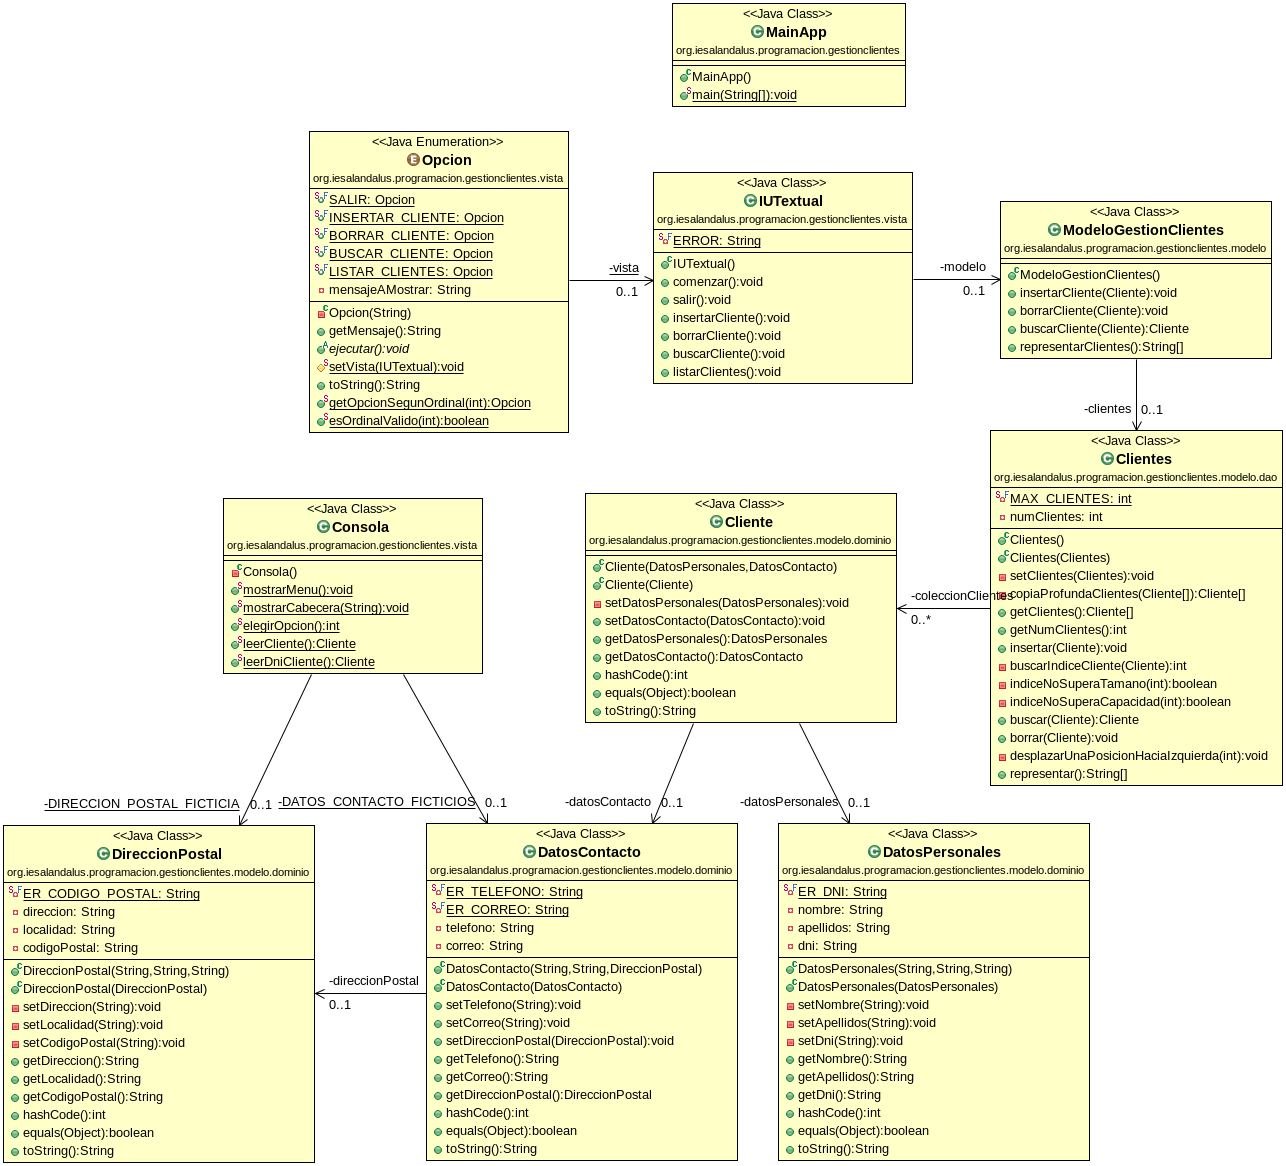
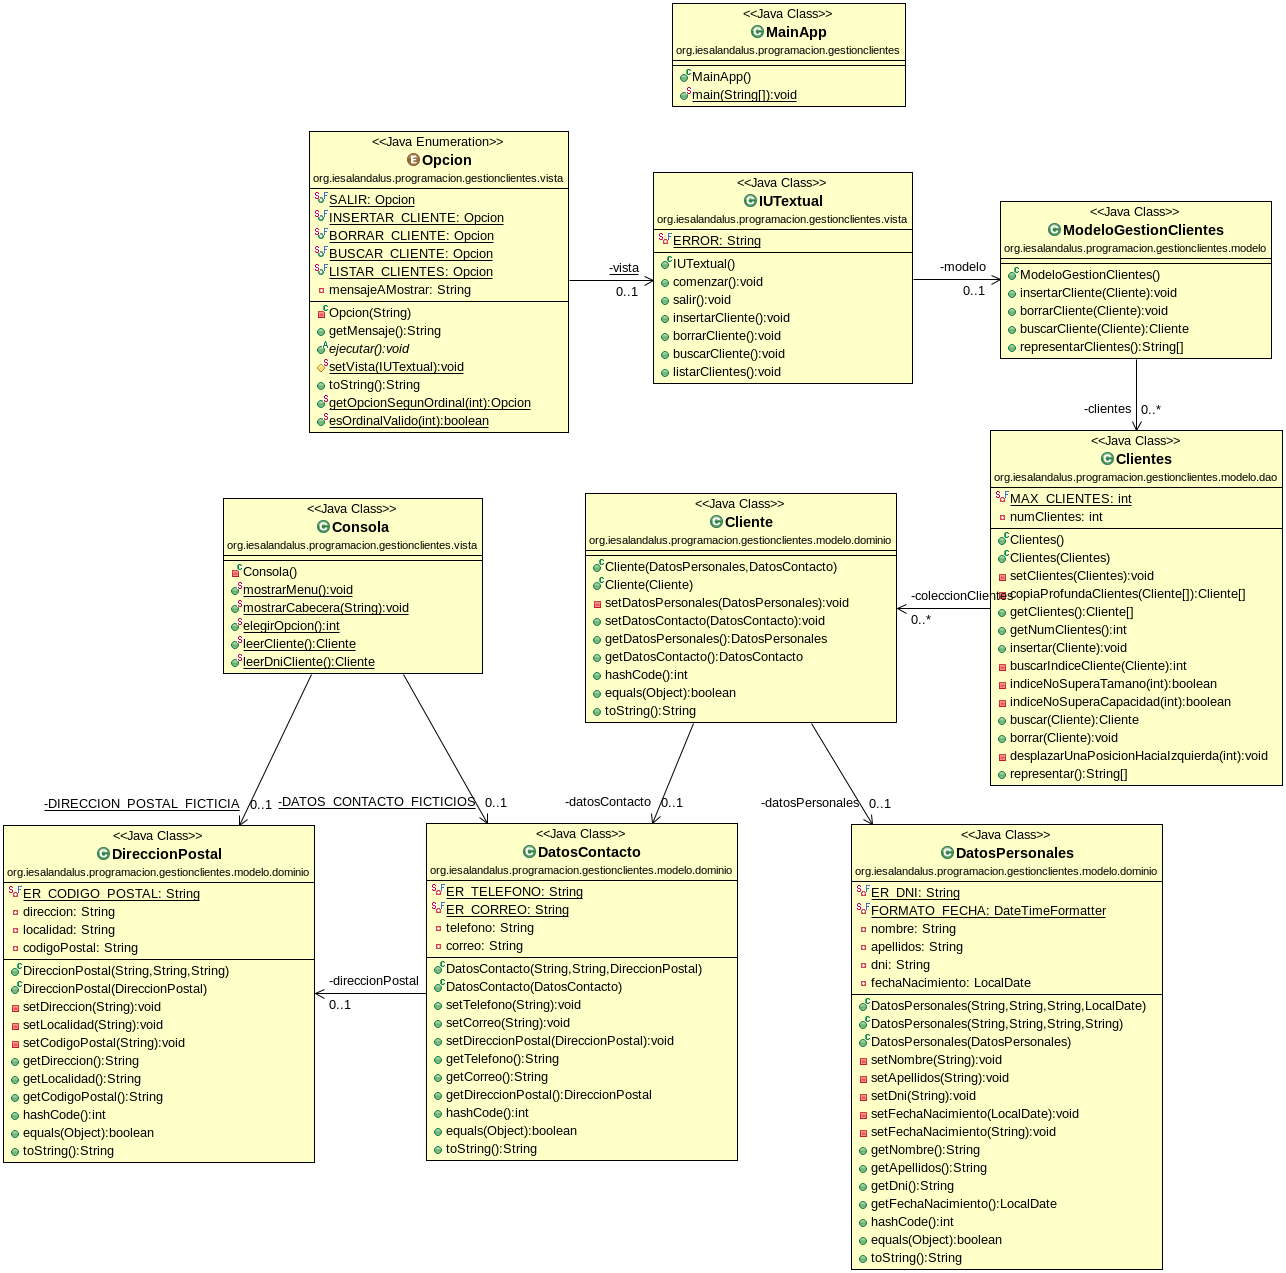
Añado atributo fecha nacimiento a DatosPersonales.

diff --git a/src/test/java/org/iesalandalus/programacion/gestionclientes/modelo/dominio/DatosPersonalesTest.java b/src/test/java/org/iesalandalus/programacion/gestionclientes/modelo/dominio/DatosPersonalesTest.java
@@ -2,6 +2,8 @@ package org.iesalandalus.programacion.gestionclientes.modelo.dominio;
 
 import static org.junit.Assert.*;
 
+import java.time.LocalDate;
+
 import org.junit.Test;
 
 public class DatosPersonalesTest {
@@ -11,11 +13,12 @@ public class DatosPersonalesTest {
 	private static final String NOMBRE = "José Ramón";
 	private static final String APELLIDOS = "Jiménez Reyes";
 	private static final String DNI = "11223344X";
+	private static final LocalDate FECHA_NACIMIENTO = LocalDate.of(1973, 6, 7);
 	
 	@Test
 	public void constructorValidoTest() {
 		try {
-			DatosPersonales datosPersonales = new DatosPersonales(NOMBRE, APELLIDOS, DNI);
+			DatosPersonales datosPersonales = new DatosPersonales(NOMBRE, APELLIDOS, DNI, FECHA_NACIMIENTO);
 			assertEquals(NOMBRE, datosPersonales.getNombre());
 			assertEquals(APELLIDOS, datosPersonales.getApellidos());
 			assertEquals(DNI, datosPersonales.getDni());
@@ -28,21 +31,21 @@ public class DatosPersonalesTest {
 	public void constructorNombreNoValidoTest() {
 		DatosPersonales datosPersonales = null;
 		try {
-			datosPersonales = new DatosPersonales(null, APELLIDOS, DNI);
+			datosPersonales = new DatosPersonales(null, APELLIDOS, DNI, FECHA_NACIMIENTO);
 			fail(ERROR_EXCEPCION);
 		} catch (IllegalArgumentException e) {
 			assertNull(datosPersonales);
 			assertEquals("El nombre no puede ser nulo.", e.getMessage());
 		}
 		try {
-			datosPersonales = new DatosPersonales("", APELLIDOS, DNI);
+			datosPersonales = new DatosPersonales("", APELLIDOS, DNI, FECHA_NACIMIENTO);
 			fail(ERROR_EXCEPCION);
 		} catch (IllegalArgumentException e) {
 			assertNull(datosPersonales);
 			assertEquals("El nombre no puede estar vacío.", e.getMessage());
 		}
 		try {
-			datosPersonales = new DatosPersonales("   ", APELLIDOS, DNI);
+			datosPersonales = new DatosPersonales("   ", APELLIDOS, DNI, FECHA_NACIMIENTO);
 			fail(ERROR_EXCEPCION);
 		} catch (IllegalArgumentException e) {
 			assertNull(datosPersonales);
@@ -54,21 +57,21 @@ public class DatosPersonalesTest {
 	public void constructorApellidosNoValidoTest() {
 		DatosPersonales datosPersonales = null;
 		try {
-			datosPersonales = new DatosPersonales(NOMBRE, null, DNI);
+			datosPersonales = new DatosPersonales(NOMBRE, null, DNI, FECHA_NACIMIENTO);
 			fail(ERROR_EXCEPCION);
 		} catch (IllegalArgumentException e) {
 			assertNull(datosPersonales);
 			assertEquals("Los apellidos no pueden ser nulos.", e.getMessage());
 		}
 		try {
-			datosPersonales = new DatosPersonales(NOMBRE, "", DNI);
+			datosPersonales = new DatosPersonales(NOMBRE, "", DNI, FECHA_NACIMIENTO);
 			fail(ERROR_EXCEPCION);
 		} catch (IllegalArgumentException e) {
 			assertNull(datosPersonales);
 			assertEquals("Los apellidos no pueden estar vacíos.", e.getMessage());
 		}
 		try {
-			datosPersonales = new DatosPersonales(NOMBRE, "   ", DNI);
+			datosPersonales = new DatosPersonales(NOMBRE, "   ", DNI, FECHA_NACIMIENTO);
 			fail(ERROR_EXCEPCION);
 		} catch (IllegalArgumentException e) {
 			assertNull(datosPersonales);
@@ -80,21 +83,21 @@ public class DatosPersonalesTest {
 	public void constructorDniNoValidoTest() {
 		DatosPersonales datosPersonales = null;
 		try {
-			datosPersonales = new DatosPersonales(NOMBRE, APELLIDOS, null);
+			datosPersonales = new DatosPersonales(NOMBRE, APELLIDOS, null, FECHA_NACIMIENTO);
 			fail(ERROR_EXCEPCION);
 		} catch (IllegalArgumentException e) {
 			assertNull(datosPersonales);
 			assertEquals("El dni no puede ser nulo.", e.getMessage());
 		}
 		try {
-			datosPersonales = new DatosPersonales(NOMBRE, APELLIDOS, "11223344");
+			datosPersonales = new DatosPersonales(NOMBRE, APELLIDOS, "11223344", FECHA_NACIMIENTO);
 			fail(ERROR_EXCEPCION);
 		} catch (IllegalArgumentException e) {
 			assertNull(datosPersonales);
 			assertEquals("El formato del dni no es correcto.", e.getMessage());
 		}
 		try {
-			datosPersonales = new DatosPersonales(NOMBRE, APELLIDOS, "11223344xx");
+			datosPersonales = new DatosPersonales(NOMBRE, APELLIDOS, "11223344xx", FECHA_NACIMIENTO);
 			fail(ERROR_EXCEPCION);
 		} catch (IllegalArgumentException e) {
 			assertNull(datosPersonales);
@@ -103,13 +106,49 @@ public class DatosPersonalesTest {
 	}
 	
 	@Test
+	public void constructorFechaNacimientoNoValidaTest() {
+		DatosPersonales datosPersonales = null;
+		try {
+			LocalDate fecha = null;
+			datosPersonales = new DatosPersonales(NOMBRE, APELLIDOS, DNI, fecha);
+			fail(ERROR_EXCEPCION);
+		} catch (IllegalArgumentException e) {
+			assertNull(datosPersonales);
+			assertEquals("La fecha de nacimiento no puede ser nula.", e.getMessage());
+		}
+		try {
+			String fecha = null;
+			datosPersonales = new DatosPersonales(NOMBRE, APELLIDOS, DNI, fecha);
+			fail(ERROR_EXCEPCION);
+		} catch (IllegalArgumentException e) {
+			assertNull(datosPersonales);
+			assertEquals("La fecha de nacimiento no puede ser nula.", e.getMessage());
+		}
+		try {
+			datosPersonales = new DatosPersonales(NOMBRE, APELLIDOS, DNI, "01/01/99");
+			fail(ERROR_EXCEPCION);
+		} catch (IllegalArgumentException e) {
+			assertNull(datosPersonales);
+			assertEquals("El formato de la fecha de nacimiento no es correcto.", e.getMessage());
+		}
+		try {
+			datosPersonales = new DatosPersonales(NOMBRE, APELLIDOS, DNI, "1/1/1999");
+			fail(ERROR_EXCEPCION);
+		} catch (IllegalArgumentException e) {
+			assertNull(datosPersonales);
+			assertEquals("El formato de la fecha de nacimiento no es correcto.", e.getMessage());
+		}
+	}
+	
+	@Test
 	public void constructorCopiaValidoTest() {
 		try {
-			DatosPersonales datosPersonales1 = new DatosPersonales(NOMBRE, APELLIDOS, DNI);
+			DatosPersonales datosPersonales1 = new DatosPersonales(NOMBRE, APELLIDOS, DNI, FECHA_NACIMIENTO);
 			DatosPersonales datosPersonales2 = new DatosPersonales(datosPersonales1);
 			assertEquals(NOMBRE, datosPersonales2.getNombre());
 			assertEquals(APELLIDOS, datosPersonales2.getApellidos());
 			assertEquals(DNI, datosPersonales2.getDni());
+			assertEquals(FECHA_NACIMIENTO, datosPersonales2.getFechaNacimiento());
 		} catch (IllegalArgumentException e) {
 			fail(ERROR_NO_EXCEPCION);
 		}
@@ -129,9 +168,9 @@ public class DatosPersonalesTest {
 	
 	@Test
 	public void equalTest() {
-		DatosPersonales datosPersonales1 = new DatosPersonales(NOMBRE, APELLIDOS, DNI);
+		DatosPersonales datosPersonales1 = new DatosPersonales(NOMBRE, APELLIDOS, DNI, FECHA_NACIMIENTO);
 		DatosPersonales datosPersonales2 = new DatosPersonales(datosPersonales1);
-		DatosPersonales datosPersonales3 = new DatosPersonales(NOMBRE, APELLIDOS, "22334455X");
+		DatosPersonales datosPersonales3 = new DatosPersonales(NOMBRE, APELLIDOS, "22334455X", LocalDate.of(2018,  1,  1));
 		assertNotEquals(datosPersonales1, null);
 		assertNotEquals(datosPersonales1, "");
 		assertEquals(datosPersonales1, datosPersonales1);
@@ -141,9 +180,9 @@ public class DatosPersonalesTest {
 	
 	@Test
 	public void hashCodeTest() {
-		DatosPersonales datosPersonales1 = new DatosPersonales(NOMBRE, APELLIDOS, DNI);
+		DatosPersonales datosPersonales1 = new DatosPersonales(NOMBRE, APELLIDOS, DNI, FECHA_NACIMIENTO);
 		DatosPersonales datosPersonales2 = new DatosPersonales(datosPersonales1);
-		DatosPersonales datosPersonales3 = new DatosPersonales(NOMBRE, APELLIDOS, "22334455X");
+		DatosPersonales datosPersonales3 = new DatosPersonales(NOMBRE, APELLIDOS, "22334455X", FECHA_NACIMIENTO);
 		assertEquals(datosPersonales1.hashCode(), datosPersonales1.hashCode());
 		assertEquals(datosPersonales1.hashCode(), datosPersonales2.hashCode());
 		assertNotEquals(datosPersonales1.hashCode(), datosPersonales3.hashCode());
@@ -151,8 +190,8 @@ public class DatosPersonalesTest {
 	
 	@Test
 	public void toStringTest() {
-		DatosPersonales datosPersonales = new DatosPersonales(NOMBRE, APELLIDOS, DNI);
-		assertEquals("[nombre=José Ramón, apellidos=Jiménez Reyes, dni=11223344X]", datosPersonales.toString());
+		DatosPersonales datosPersonales = new DatosPersonales(NOMBRE, APELLIDOS, DNI, FECHA_NACIMIENTO);
+		assertEquals("[nombre=José Ramón, apellidos=Jiménez Reyes, dni=11223344X, fecha nacimiento=07/06/1973]", datosPersonales.toString());
 	}
 
 }

diff --git a/src/main/java/org/iesalandalus/programacion/gestionclientes/modelo/dominio/DatosPersonales.java b/src/main/java/org/iesalandalus/programacion/gestionclientes/modelo/dominio/DatosPersonales.java
@@ -1,17 +1,31 @@
 package org.iesalandalus.programacion.gestionclientes.modelo.dominio;
 
+import java.time.LocalDate;
+import java.time.format.DateTimeFormatter;
+import java.time.format.DateTimeParseException;
+
 public class DatosPersonales {
 
 	private static final String ER_DNI = "\\d{8}[A-Za-z]";
+	private static final DateTimeFormatter FORMATO_FECHA = DateTimeFormatter.ofPattern("dd/MM/yyyy");
 	
 	private String nombre;
 	private String apellidos;
 	private String dni;
+	private LocalDate fechaNacimiento;
 	
-	public DatosPersonales(String nombre, String apellidos, String dni) {
+	public DatosPersonales(String nombre, String apellidos, String dni, LocalDate fechaNacimiento) {
 		setNombre(nombre);
 		setApellidos(apellidos);
 		setDni(dni);
+		setFechaNacimiento(fechaNacimiento);
+	}
+	
+	public DatosPersonales(String nombre, String apellidos, String dni, String fechaNacimiento) {
+		setNombre(nombre);
+		setApellidos(apellidos);
+		setDni(dni);
+		setFechaNacimiento(fechaNacimiento);
 	}
 	
 	public DatosPersonales(DatosPersonales datosPersonales) {
@@ -21,6 +35,7 @@ public class DatosPersonales {
 		setNombre(datosPersonales.nombre);
 		setApellidos(datosPersonales.apellidos);
 		setDni(datosPersonales.dni);
+		setFechaNacimiento(datosPersonales.fechaNacimiento);
 	}
 	
 	private void setNombre(String nombre) {
@@ -53,6 +68,24 @@ public class DatosPersonales {
 		this.dni = dni;
 	}
 	
+	private void setFechaNacimiento(LocalDate fechaNacimiento) {
+		if (fechaNacimiento == null) {
+			throw new IllegalArgumentException("La fecha de nacimiento no puede ser nula.");
+		}
+		this.fechaNacimiento = fechaNacimiento;
+	}
+	
+	private void setFechaNacimiento(String fechaNacimiento) {
+		if (fechaNacimiento == null) {
+			throw new IllegalArgumentException("La fecha de nacimiento no puede ser nula.");
+		}
+		try {
+			this.fechaNacimiento = LocalDate.parse(fechaNacimiento, FORMATO_FECHA);
+		} catch (DateTimeParseException e) {
+			throw new IllegalArgumentException("El formato de la fecha de nacimiento no es correcto.");
+		}
+	}
+	
 	public String getNombre() {
 		return nombre;
 	}
@@ -63,6 +96,10 @@ public class DatosPersonales {
 	
 	public String getDni() {
 		return dni;
+	}
+	
+	public LocalDate getFechaNacimiento() {
+		return fechaNacimiento;
 	}
 
 	@Override
@@ -97,7 +134,8 @@ public class DatosPersonales {
 
 	@Override
 	public String toString() {
-		return "[nombre=" + nombre + ", apellidos=" + apellidos + ", dni=" + dni + "]";
+		return "[nombre=" + nombre + ", apellidos=" + apellidos + ", dni=" + dni + 
+				", fecha nacimiento=" + fechaNacimiento.format(FORMATO_FECHA) + "]";
 	}
 
 }

diff --git a/src/test/java/org/iesalandalus/programacion/gestionclientes/modelo/dominio/ClienteTest.java b/src/test/java/org/iesalandalus/programacion/gestionclientes/modelo/dominio/ClienteTest.java
@@ -2,6 +2,8 @@ package org.iesalandalus.programacion.gestionclientes.modelo.dominio;
 
 import static org.junit.Assert.*;
 
+import java.time.LocalDate;
+
 import org.junit.Test;
 
 public class ClienteTest {
@@ -9,7 +11,9 @@ public class ClienteTest {
 	private static final String ERROR_EXCEPCION = "Debería haber saltado la excepción.";
 	private static final String ERROR_NO_EXCEPCION = "No debería haber saltado la excepción.";
 	private static final DatosPersonales DATOS_PERSONALES = 
-			new DatosPersonales("José Ramón", "Jiménez Reyes", "11223344X");
+			new DatosPersonales("José Ramón", "Jiménez Reyes", "11223344X", LocalDate.of(1973, 6, 7));
+	private static final DatosPersonales OTROS_DATOS_PERSONALES =
+			new DatosPersonales("Paco", "Jones", "22334455X", LocalDate.of(1973, 6, 7));
 	private static final DatosContacto DATOS_CONTACTO =
 			new DatosContacto("950112233", "prueba@iesalandalus.org", 
 					new DireccionPostal("Finca Santa Isabel s/n", "Almería", "04008"));
@@ -79,7 +83,7 @@ public class ClienteTest {
 	public void equalTest() {
 		Cliente cliente1 = new Cliente(DATOS_PERSONALES, DATOS_CONTACTO);
 		Cliente cliente2 = new Cliente(cliente1);
-		Cliente cliente3 = new Cliente(new DatosPersonales("Paco", "Jones", "22334455X"), DATOS_CONTACTO);
+		Cliente cliente3 = new Cliente(OTROS_DATOS_PERSONALES, DATOS_CONTACTO);
 		assertNotEquals(cliente1, null);
 		assertNotEquals(cliente1, "");
 		assertEquals(cliente1, cliente1);
@@ -91,7 +95,7 @@ public class ClienteTest {
 	public void hashCodeTest() {
 		Cliente cliente1 = new Cliente(DATOS_PERSONALES, DATOS_CONTACTO);
 		Cliente cliente2 = new Cliente(cliente1);
-		Cliente cliente3 = new Cliente(new DatosPersonales("Paco", "Jones", "22334455X"), DATOS_CONTACTO);
+		Cliente cliente3 = new Cliente(OTROS_DATOS_PERSONALES, DATOS_CONTACTO);
 		assertEquals(cliente1.hashCode(), cliente1.hashCode());
 		assertEquals(cliente1.hashCode(), cliente2.hashCode());
 		assertNotEquals(cliente1.hashCode(), cliente3.hashCode());
@@ -99,7 +103,7 @@ public class ClienteTest {
 	
 	@Test
 	public void toStringTest() {
-		String clienteStr = "Cliente [datos personales=[nombre=José Ramón, apellidos=Jiménez Reyes, dni=11223344X], "
+		String clienteStr = "Cliente [datos personales=[nombre=José Ramón, apellidos=Jiménez Reyes, dni=11223344X, fecha nacimiento=07/06/1973], "
 				+ "datos de contacto=[teléfono=950112233, correo=prueba@iesalandalus.org, dirección postal="
 				+ "[dirección=Finca Santa Isabel s/n, localidad=Almería, código postal=04008]]]";
 		Cliente cliente = new Cliente(DATOS_PERSONALES, DATOS_CONTACTO);

diff --git a/src/test/java/org/iesalandalus/programacion/gestionclientes/modelo/dao/ClientesTest.java b/src/test/java/org/iesalandalus/programacion/gestionclientes/modelo/dao/ClientesTest.java
@@ -6,6 +6,8 @@ import static org.junit.Assert.assertNotEquals;
 import static org.junit.Assert.assertNull;
 import static org.junit.Assert.fail;
 
+import java.time.LocalDate;
+
 import javax.naming.OperationNotSupportedException;
 
 import org.iesalandalus.programacion.gestionclientes.modelo.dao.Clientes;
@@ -19,9 +21,9 @@ public class ClientesTest {
 	
 	private static final String ERROR_EXCEPCION = "Debería haber saltado la excepción.";
 	private static final String ERROR_NO_EXCEPCION = "No debería haber saltado la excepción.";
-	private static final DatosPersonales DATOS_PERSONALES1 = new DatosPersonales("Cliente", "1", "11111111A");
-	private static final DatosPersonales DATOS_PERSONALES2 = new DatosPersonales("Cliente", "2", "22222222B");
-	private static final DatosPersonales DATOS_PERSONALES3 = new DatosPersonales("Cliente", "3", "33333333C");
+	private static final DatosPersonales DATOS_PERSONALES1 = new DatosPersonales("Cliente", "1", "11111111A", LocalDate.of(2010, 1, 1));
+	private static final DatosPersonales DATOS_PERSONALES2 = new DatosPersonales("Cliente", "2", "22222222B", LocalDate.of(2011,  2,  2));
+	private static final DatosPersonales DATOS_PERSONALES3 = new DatosPersonales("Cliente", "3", "33333333C", LocalDate.of(2012, 3, 3));
 	private static final DireccionPostal DIRECCION_POSTAL = new DireccionPostal("Finca Santa Isabel s/n", "Almería", "04008");
 	private static final DatosContacto DATOS_CONTACTO1 = new DatosContacto("950111111", "a@a.es", DIRECCION_POSTAL);
 	private static final DatosContacto DATOS_CONTACTO2 = new DatosContacto("950222222", "b@b.es", DIRECCION_POSTAL);
@@ -209,7 +211,7 @@ public class ClientesTest {
 	public void borrarNoValidoTest() {
 		Clientes clientes = insertarTres();
 		try {
-			DatosPersonales datosPersonales = new DatosPersonales("Cliente", "4", "44444444D");
+			DatosPersonales datosPersonales = new DatosPersonales("Cliente", "4", "44444444D", LocalDate.of(2014, 4, 4));
 			Cliente cliente = new Cliente(datosPersonales, DATOS_CONTACTO1);
 			clientes.borrar(cliente);
 			fail(ERROR_EXCEPCION);

diff --git a/src/main/java/org/iesalandalus/programacion/gestionclientes/vista/Consola.java b/src/main/java/org/iesalandalus/programacion/gestionclientes/vista/Consola.java
@@ -46,6 +46,8 @@ public class Consola {
 		String dni = Entrada.cadena();
 		System.out.print("Introduce el teléfono: ");
 		String telefono = Entrada.cadena();
+		System.out.print("Introduce la fecha de nacimiento: ");
+		String fechaNacimiento = Entrada.cadena();
 		System.out.print("Introduce el correo: ");
 		String correo = Entrada.cadena();
 		System.out.print("Introduce la dirección: ");
@@ -54,7 +56,7 @@ public class Consola {
 		String localidad = Entrada.cadena();
 		System.out.print("Introduce el código postal: ");
 		String codigoPostal = Entrada.cadena();
-		DatosPersonales datosPersonales = new DatosPersonales(nombre, apellidos, dni);
+		DatosPersonales datosPersonales = new DatosPersonales(nombre, apellidos, dni, fechaNacimiento);
 		DireccionPostal direccionPostal = new DireccionPostal(direccion, localidad, codigoPostal);
 		DatosContacto datosContacto = new DatosContacto(telefono, correo, direccionPostal);
 		return new Cliente(datosPersonales, datosContacto);
@@ -66,7 +68,7 @@ public class Consola {
 			System.out.print("Introduce el dni: ");
 			dni = Entrada.cadena();
 		} while (dni.trim().equals(""));
-		DatosPersonales datosPersonalesDni = new DatosPersonales("Cliente", "1", dni);
+		DatosPersonales datosPersonalesDni = new DatosPersonales("Cliente", "1", dni, "01/01/1999");
 		return new Cliente(datosPersonalesDni, DATOS_CONTACTO_FICTICIOS);
 	}
 	

diff --git a/README.md b/README.md
@@ -5,7 +5,7 @@ Debes crear un programa para la gestión de clientes de una empresa.
 
 - Una dirección postal constará de una dirección, una localidad y un código postal.
 - Los datos de contacto de un cliente constarán de un teléfono, un correo y una dirección postal.
-- Los datos personales de un cliente tendrán un nombre, unos apellidos y un dni.
+- Los datos personales de un cliente tendrán un nombre, unos apellidos, un dni y una fecha de nacimiento.
 - Los datos de un cliente se compondrán de sus datos personales y sus datos de contacto.
 - Un cliente será igual a otro si su dni es el mismo.
 - Deberemos podemos añadir clientes, borrar clientes, buscar clientes, obtener todos los clientes y listar los clientes existentes.
